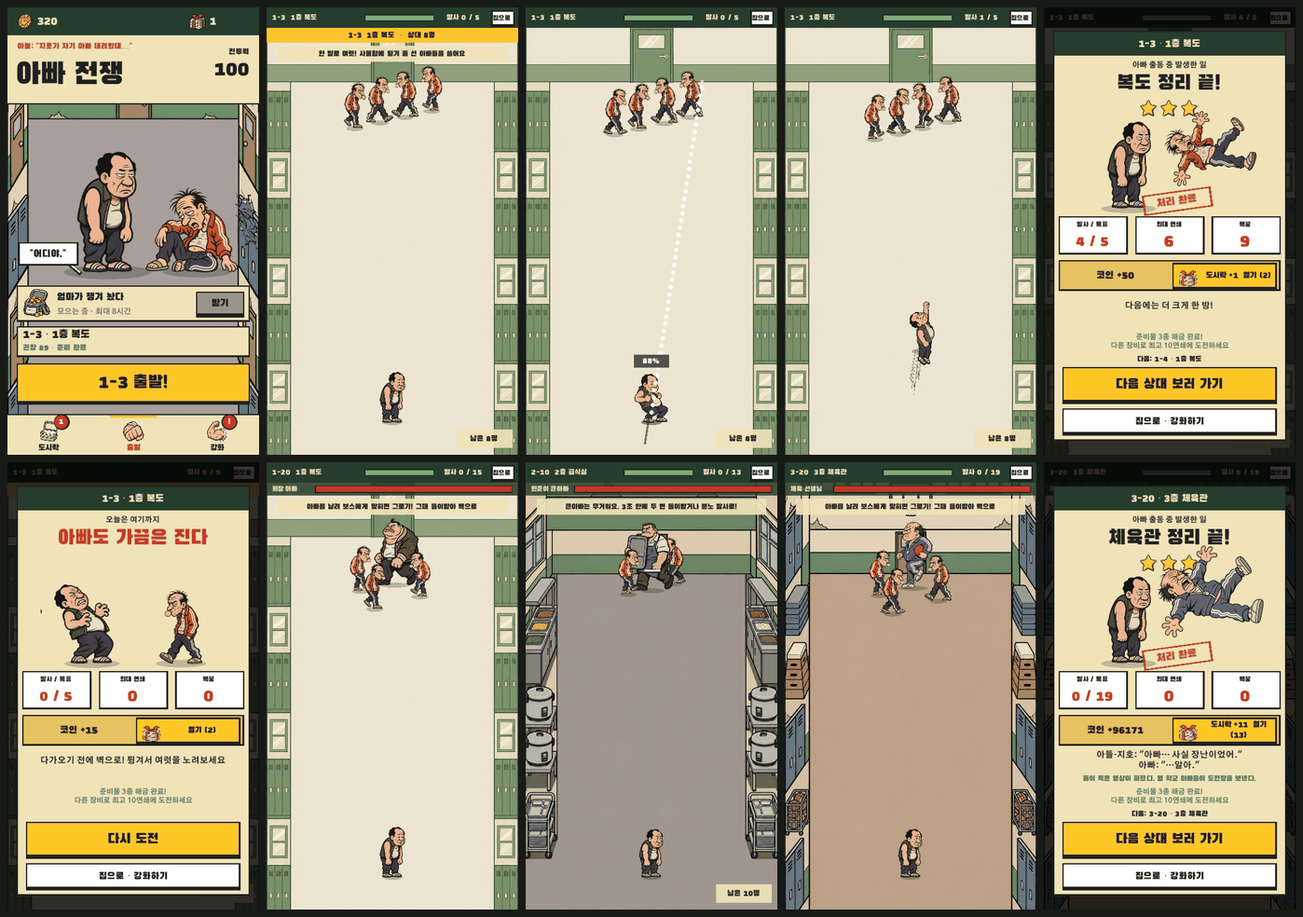
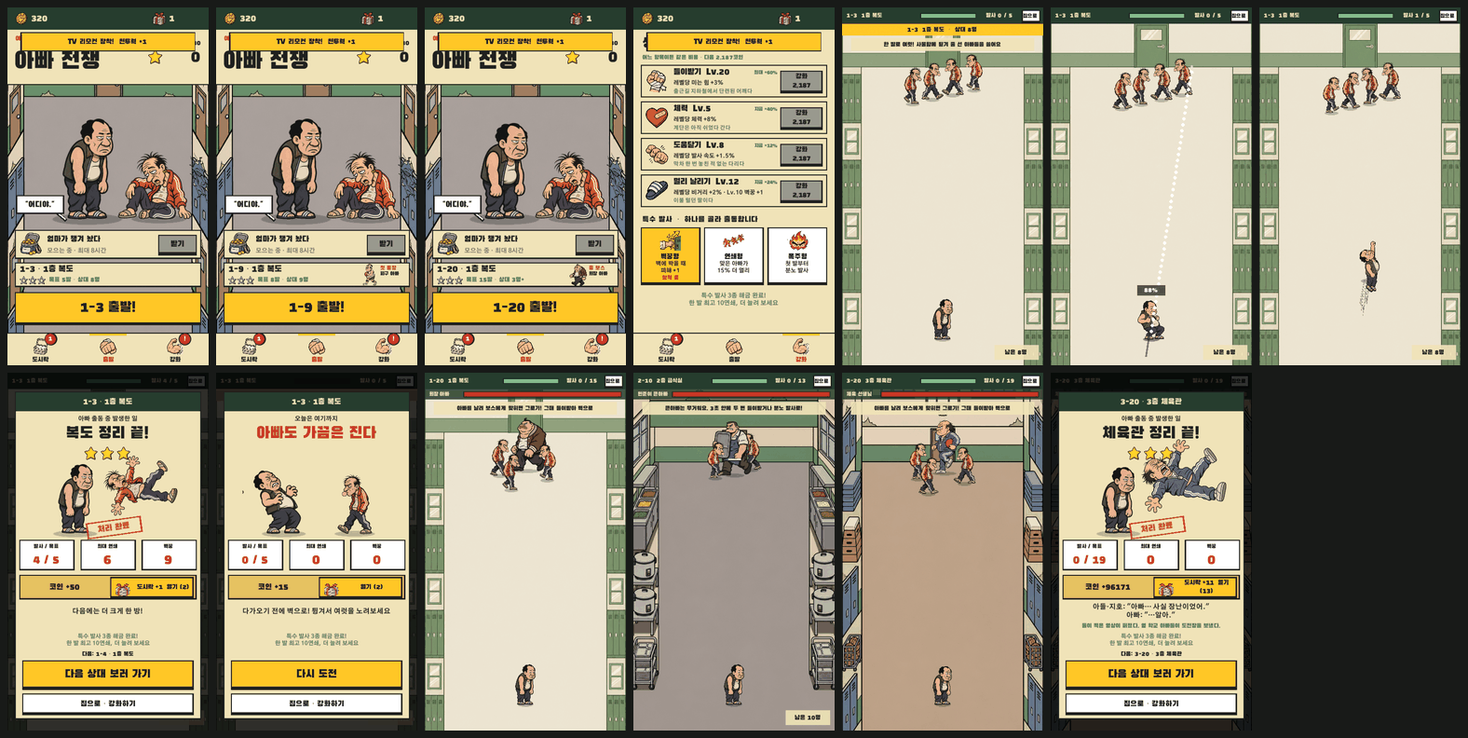
Reword upgrades, special launches and the 출발 card for the slingshot
- 강화 tab: 들이받기 / 체력 / 도움닫기 / 멀리 날리기 with per-level effects
  and current values read from the same table the fight uses (최대 at cap)
- Loadouts become 특수 발사 벽꿍형 / 연쇄형 / 폭주형 with the V13 icons;
  the old names clashed with lunchbox gear (PM R8)
- 출발 card: best stars, shot target, foe count, and a tag for the first
  chair / tray / dodgeball dad, the big-dad and the floor boss; the home
  header shows collected stars instead of power (C-13)
- Next-goal and 엄마의 응원 lines match the new fight
- 2 new play checks; slingmain audit captures the new home screens

diff --git a/Assets/DadSchoolBoss/DadHomeScreens.cs b/Assets/DadSchoolBoss/DadHomeScreens.cs
@@ -10,7 +10,7 @@ public sealed partial class DadSchoolPrototype
     public HomeTab Tab { get; set; } = HomeTab.Go;
     static readonly string[] TabNames = { "도시락", "출발", "강화" };
     static readonly string[] TabIcons = { "tab_lunchbox", "tab_go", "tab_upgrade" };
-    static readonly string[] UpgradeQuips = { "주먹 쥘 일은 없었으면 했다", "계단은 아직 쉬었다 간다", "리모컨 누르던 엄지다", "이불 털던 어깨다" };
+    static readonly string[] UpgradeQuips = { "출근길 지하철에서 단련된 어깨다", "계단은 아직 쉬었다 간다", "막차 한 번 놓친 적 없는 다리다", "이불 털던 팔이다" };
     static readonly string[] FloorDone = { "복도 정리 끝!", "급식실 정리 끝!", "체육관 정리 끝!" };
     static readonly Color Night = new Color(.15f, .24f, .18f);   // v9 top bar and result header
     static readonly Color Muted = new Color(.45f, .44f, .4f);
@@ -58,16 +58,18 @@ public sealed partial class DadSchoolPrototype
         Text(new Rect(c.x - 20, c.y - 14, 40, 28), s, 16, Color.white, true, TextAnchor.MiddleCenter);
     }
 
-    // ---- 출발: the son's line, the title and power, the scene, mom's idle stash, the stage and the go button ----------
+    // ---- 출발: the son's line, the title and stars, the scene, mom's idle stash, the stage and the go button ----------
     void DrawGoTab()
     {
         DadSave save = Progress.Save; int stage = save.currentStage, floor = Progress.Eco.Floor(stage);
-        float power = Progress.EffectivePower(stage), required = Progress.Eco.RequiredPower(stage);
         Box(new Rect(0, BarHeight, Width, 146), Paper); Box(new Rect(0, BarHeight + 146, Width, 3), Ink);
         Text(new Rect(22, 70, 340, 26), "아들: \"지호가 자기 아빠 데려왔대…\"", 17, Red, true);
         Text(new Rect(18, 94, 330, 104), Title, 64, Ink, true);
-        Text(new Rect(330, 82, 188, 26), "전투력", 17, Ink, true, TextAnchor.MiddleRight);
-        Text(new Rect(290, 106, 228, 56), Mathf.RoundToInt(power).ToString("N0"), 42, Ink, true, TextAnchor.MiddleRight);
+        // Stars collected over the school (C-13: the power number moved out; the fight runs on upgrades, not power).
+        int stars = 0; foreach (int s in save.stars) stars += s;
+        Text(new Rect(330, 82, 188, 26), "모은 별 / " + 3 * Progress.Eco.TotalStages, 17, Ink, true, TextAnchor.MiddleRight);
+        Icon("star_full", new Rect(376, 112, 42, 42));
+        Text(new Rect(418, 106, 100, 56), stars.ToString(), 42, Ink, true, TextAnchor.MiddleRight);
         DrawHomeScene(floor);
 
         // Mom's stash (idle reward): always on its own row so it never covers dad's face (v9).
@@ -79,15 +81,23 @@ public sealed partial class DadSchoolPrototype
                                               : "모으는 중 · 최대 " + Mathf.RoundToInt(Progress.Eco.offlineCapHours) + "시간", 16, idle ? Ink : Muted);
         if (Button(new Rect(404, 610, 104, 50), "받기", Yellow, idle, 22)) { Progress.ClaimIdle(); PersistNow(); PlaySfx("sfx_coin", .7f); }
 
+        // The stage card (C-13): best stars so far, the shot target and how many dads, and who is new or big on the right.
         Panel(new Rect(20, 684, 500, 66), Paper);
         Text(new Rect(34, 686, 330, 34), Progress.Eco.Label(stage) + " · " + StagePlan.FloorNames[Mathf.Clamp(floor - 1, 0, 2)], 24, Ink, true);
-        bool weak = power < required;
-        Text(new Rect(34, 716, 360, 30), "권장 " + Mathf.RoundToInt(required).ToString("N0") + (weak ? " · 조금 더 준비하고 갈까?" : " · 준비 완료"), 17, weak ? Red : Green, true);
+        SlingshotSim.Stage next = CardStage(stage); int best = Progress.Stars(stage);
+        for (int s = 0; s < 3; s++) Icon(s < best ? "star_full" : "star_empty", new Rect(32 + s * 24, 720, 24, 24));
+        Text(new Rect(112, 716, 270, 30), "목표 " + next.par + "발 · 상대 " + next.spawns.Count + "명" + (next.bossEscorts ? "+" : ""), 17, Green, true);
         float assist = Progress.StuckAssist(stage);
         if (assist > 1.001f)
         {
             Icon("mom_cheer", new Rect(392, 690, 52, 52));
-            Text(new Rect(442, 688, 76, 60), "엄마 응원\n+" + Mathf.RoundToInt((assist - 1) * 100) + "%", 15, Green, true);
+            Text(new Rect(442, 688, 76, 60), "엄마 응원\n체력+" + Mathf.RoundToInt((assist - 1) * 100) + "%", 15, Green, true);
+        }
+        else if (cardFoe != null)
+        {
+            DrawCharacter(cardFoe, "walk", 0, new Vector2(412, 746), cardElite ? 66 : 58, false);
+            Text(new Rect(440, 688, 78, 22), cardTag, 15, Red, true);
+            Text(new Rect(440, 708, 78, 40), cardName, 14, Ink, true, TextAnchor.UpperLeft);
         }
         if (Button(new Rect(20, 764, 500, 84), Progress.Eco.Label(stage) + " 출발!", Yellow, true, 38)) StartRun();
     }
@@ -147,49 +157,56 @@ public sealed partial class DadSchoolPrototype
         Text(new Rect(24, 790, 492, 60), "\"밥 먹으려고 열었는데 효자손이 나왔다.\"", 18, Green, true, TextAnchor.MiddleCenter);
     }
 
-    // ---- 강화: four rows with what each level really does, then the loadout that changes how a fight plays -------------
+    // ---- 강화: four rows with what each level does in the fight, then the special launch that changes how it plays ---------
     void DrawUpgradeTab()
     {
         double cost = Progress.NextUpgradeCost; bool afford = Progress.Save.coins >= cost;
-        int step = Mathf.RoundToInt(Progress.Eco.upgradePower * 100);
         Text(new Rect(24, 70, 492, 54), "생활 체력 단련", 36, Ink, true);
-        Text(new Rect(24, 120, 492, 26), "어느 강화든 전투력 +" + step + "% · 다음 비용 " + Mathf.CeilToInt((float)cost).ToString("N0") + "코인", 16, Green, true);
+        Text(new Rect(24, 120, 492, 26), "어느 항목이든 같은 비용 · 다음 " + Mathf.CeilToInt((float)cost).ToString("N0") + "코인", 16, Green, true);
         for (int i = 0; i < DadProgress.StatCount; i++)
         {
             Rect row = new Rect(20, 154 + i * 98, 500, 88); Panel(row, Paper);
             Icon(UpgradeIcons[i], new Rect(30, row.y + 10, 68, 68));
-            Text(new Rect(108, row.y + 4, 180, 32), DadProgress.StatNames[i] + "  Lv." + Progress.Save.upgrades[i], 23, Ink, true);
-            Text(new Rect(236, row.y + 8, 150, 26), UpgradeNow(i), 14, Green, true, TextAnchor.MiddleRight);
-            Text(new Rect(108, row.y + 36, 280, 24), UpgradeEffect(i, step), 15, Ink);
+            Text(new Rect(108, row.y + 4, 210, 32), DadProgress.StatNames[i] + "  Lv." + Progress.Save.upgrades[i], 23, Ink, true);
+            Text(new Rect(296, row.y + 8, 90, 26), UpgradeNow(i), 14, Green, true, TextAnchor.MiddleRight);
+            Text(new Rect(108, row.y + 36, 280, 24), UpgradeEffect(i), 15, Ink);
             Text(new Rect(108, row.y + 59, 280, 24), UpgradeQuips[i], 14, Green);
             if (Button(new Rect(394, row.y + 16, 114, 56), "강화\n" + Mathf.CeilToInt((float)cost).ToString("N0"), afford ? Yellow : Color.white, afford, 19) && Progress.TryUpgrade(i))
             { PersistNow(); PlaySfx("sfx_skill_pick", .6f); }
         }
-        Text(new Rect(24, 552, 492, 34), "출동 준비물  ·  싸우는 방식이 바뀝니다", 21, Ink, true);
-        string[] names = { "고무 슬리퍼", "튼튼한 도시락", "폴더폰" };
-        string[] effects = { "날리는 힘 +25%\n벽 피해 +1", ChainGearUnlocked ? "처음부터\n충돌 전달 강화" : "[잠김]\n3연쇄 또는 첫 승리", PhoneGearUnlocked ? "필살기가 공포 파동\n체력 +6 · 폭주 없음" : "[잠김]\n누적 벽꿍 " + TotalWallHits + "/" + PhoneWallGoal };
+        Text(new Rect(24, 552, 492, 34), "특수 발사  ·  하나를 골라 출동합니다", 21, Ink, true);
+        string[] effects = { "벽에 박을 때\n피해 +1", ChainGearUnlocked ? "맞은 아빠가\n" + Mathf.RoundToInt(ChainLaunchThrow * 100) + "% 더 멀리" : "[잠김]\n3연쇄 또는 첫 승리", PhoneGearUnlocked ? "첫 발부터\n분노 발사" : "[잠김]\n누적 벽꿍 " + TotalWallHits + "/" + PhoneWallGoal };
         bool[] open = { true, ChainGearUnlocked, PhoneGearUnlocked };
         for (int i = 0; i < 3; i++)
         {
             Rect c = new Rect(20 + i * 170, 590, 160, 150);
             if (Button(c, "", Gear == i ? Yellow : Color.white, open[i])) { SelectGear(i); }
-            Text(new Rect(c.x + 6, c.y + 10, c.width - 12, 34), names[i], 20, Ink, true, TextAnchor.MiddleCenter);
-            Text(new Rect(c.x + 8, c.y + 48, c.width - 16, 70), effects[i], 15, open[i] ? Ink : Muted, false, TextAnchor.UpperCenter);
-            if (Gear == i) Text(new Rect(c.x, c.y + 116, c.width, 26), "장착 중", 16, Red, true, TextAnchor.MiddleCenter);
+            Texture2D icon = LaunchIcon(i);
+            if (icon != null) { GUI.color = open[i] ? Color.white : new Color(1, 1, 1, .45f); GUI.DrawTexture(new Rect(c.center.x - 32, c.y + 4, 64, 64), icon, ScaleMode.ScaleToFit); GUI.color = Color.white; }
+            Text(new Rect(c.x + 6, c.y + 66, c.width - 12, 24), LaunchNames[i], 20, Ink, true, TextAnchor.MiddleCenter);
+            Text(new Rect(c.x + 8, c.y + 90, c.width - 16, 36), effects[i], 15, open[i] ? Ink : Muted, false, TextAnchor.UpperCenter);
+            if (Gear == i) Text(new Rect(c.x, c.y + 126, c.width, 20), "장착 중", 16, Red, true, TextAnchor.MiddleCenter);
         }
         Text(new Rect(24, 754, 492, 56), NextGoal, 16, Green, false, TextAnchor.MiddleCenter);
     }
-    // What a level really changes today: every level raises the shared power; combo and launch also feed combat directly
-    // (ApplyPower). Fist and stamina are not split yet, so no separate number is shown for them (v9 강화).
-    static string UpgradeEffect(int stat, int step)
+    // V13 special-launch icons (A-B09), loaded once.
+    Texture2D[] launchIcons;
+    Texture2D LaunchIcon(int i)
     {
-        return "전투력 +" + step + "%" + (stat == 2 ? " · 공격 간격 -1%" : stat == 3 ? " · 날리는 힘 +2%" : "");
+        if (launchIcons == null) launchIcons = new[] { Resources.Load<Texture2D>("DadV13/ui/wall_launch"), Resources.Load<Texture2D>("DadV13/ui/chain_launch"), Resources.Load<Texture2D>("DadV13/ui/rage_launch") };
+        return launchIcons[i];
     }
-    // The combat bonus reached so far, with the caps ApplyPower uses (combo 30%, launch 60%).
+    // What one level does in the fight, from the numbers ApplyGrowth uses.
+    static string UpgradeEffect(int stat)
+    {
+        string per = "레벨당 " + (stat == 0 ? "미는 힘" : stat == 1 ? "체력" : stat == 2 ? "발사 속도" : "비거리") + " +" + (GrowthStep[stat] * 100).ToString("0.#") + "%";
+        return stat == 3 ? per + " · Lv." + FarThrowWallLevel + " 벽꿍 +1" : per;
+    }
+    // The bonus reached so far; "최대" once the cap is hit (health has none).
     string UpgradeNow(int stat)
     {
         int lv = Progress.Save.upgrades[stat];
-        return stat == 2 ? "지금 간격 -" + Mathf.Min(30, lv) + "%" : stat == 3 ? "지금 힘 +" + Mathf.Min(60, lv * 2) + "%" : "";
+        return (GrowthCapped(stat, lv) ? "최대 +" : "지금 +") + (GrowthBonus(stat, lv) * 100).ToString("0.#") + "%";
     }
 
     // ---- result: today's job report (v9 03) -----------------------------------------------------------------------------
@@ -242,7 +259,7 @@ public sealed partial class DadSchoolPrototype
         else if (!won && Progress.StuckAssist(PlayingStage) > 1.001f)
         {
             Icon("mom_cheer", new Rect(120, 664, 30, 30));
-            Text(new Rect(154, 666, 300, 26), "엄마의 응원 +" + Mathf.RoundToInt((Progress.StuckAssist(PlayingStage) - 1) * 100) + "% 적용 중", 17, Green, true);
+            Text(new Rect(154, 666, 300, 26), "엄마의 응원 " + (UseSlingshot ? "체력 +" : "+") + Mathf.RoundToInt((Progress.StuckAssist(PlayingStage) - 1) * 100) + "% 적용 중", 17, Green, true);
         }
         Text(new Rect(44, 694, 452, 46), NextGoal, 15, Green, false, TextAnchor.MiddleCenter);
         int next = Progress.Save.currentStage;

diff --git a/Assets/DadSchoolBoss/DadSlingshotBattle.cs b/Assets/DadSchoolBoss/DadSlingshotBattle.cs
@@ -35,16 +35,49 @@ public sealed partial class DadSchoolPrototype
         SlingBattle = true; SlingResult = null; Home = false; Paused = false; Combat = null; Director = null;
         popups.Clear(); resultReason = "";
     }
-    // 주먹 -> 들이받기, 체력, 연타 -> 도움닫기, 날리기 -> 멀리 날리기 (+1 wall damage from Lv.10). Gear: 벽꿍형 adds wall
-    // damage, 연쇄형 sends hit dads further, 폭주형 starts with a rage shot. 엄마의 응원 (losing streak) adds health.
+    // Upgrades in the fight, per level and capped (the 강화 tab reads the same numbers): 들이받기 = how hard a hit dad is
+    // sent, 체력 = dad's health (no cap), 도움닫기 = launch speed, 멀리 날리기 = how far a hit dad flies, +1 wall damage
+    // from Lv.10. Special launches: 벽꿍형 adds wall damage, 연쇄형 sends hit dads further, 폭주형 starts with a rage shot.
+    // 엄마의 응원 (losing streak) adds health.
+    public static readonly float[] GrowthStep = { .03f, .08f, .015f, .02f };
+    static readonly float[] GrowthCap = { .6f, float.MaxValue, .3f, .5f };
+    public const int FarThrowWallLevel = 10;
+    public const float ChainLaunchThrow = .15f;
+    public static float GrowthBonus(int stat, int level) { return Mathf.Min(GrowthCap[stat], GrowthStep[stat] * level); }
+    public static bool GrowthCapped(int stat, int level) { return GrowthStep[stat] * level >= GrowthCap[stat] - 1e-4f; }   // .03f * 20 lands just under .6f
     public static void ApplyGrowth(SlingshotSim sim, int[] up, int gear, float assist)
     {
-        sim.knockBonus = Mathf.Min(1.6f, 1 + .03f * up[0]);
-        sim.SetHealth(100 * (1 + .08f * up[1]) * assist);
-        sim.launchBonus = Mathf.Min(1.3f, 1 + .015f * up[2]);
-        sim.throwBonus = Mathf.Min(1.5f, 1 + .02f * up[3]) * (gear == 1 ? 1.15f : 1);
-        sim.wallBonus = (up[3] >= 10 ? 1 : 0) + (gear == 0 ? 1 : 0);
+        sim.knockBonus = 1 + GrowthBonus(0, up[0]);
+        sim.SetHealth(100 * (1 + GrowthBonus(1, up[1])) * assist);
+        sim.launchBonus = 1 + GrowthBonus(2, up[2]);
+        sim.throwBonus = (1 + GrowthBonus(3, up[3])) * (gear == 1 ? 1 + ChainLaunchThrow : 1);
+        sim.wallBonus = (up[3] >= FarThrowWallLevel ? 1 : 0) + (gear == 0 ? 1 : 0);
         if (gear == 2) sim.ragePending = true;
+    }
+
+    // ---- the 출발 card: what the next fight holds -------------------------------------------------------------------------
+    public static readonly string[] KindNames = { "껌 아빠", "의자 아빠", "쟁반 아빠", "보스", "피구 아빠" };   // by SlingshotSim.Kind
+    SlingshotSim.Stage cardStage; int cardStageNo; string cardFoe, cardTag, cardName; bool cardElite;
+    public static SlingshotSim.Stage MainStage(DadEconomy eco, int stage) { return SlingshotSim.ForMain(eco.Floor(stage), eco.Number(stage), DadSlingshotPrototype.Arena); }
+    // A role no earlier stage had (the first chair, tray and dodgeball dad), or -1. Plain dads and bosses are not roles.
+    public static int NewKind(DadEconomy eco, int stage)
+    {
+        var seen = new System.Collections.Generic.HashSet<SlingshotSim.Kind> { SlingshotSim.Kind.Gum, SlingshotSim.Kind.Boss };
+        for (int s = 1; s < stage; s++) foreach (SlingshotSim.Spawn sp in MainStage(eco, s).spawns) seen.Add(sp.kind);
+        foreach (SlingshotSim.Spawn sp in MainStage(eco, stage).spawns) if (!seen.Contains(sp.kind)) return (int)sp.kind;
+        return -1;
+    }
+    // Cached per stage: the stage, and the dad to show on the card (floor boss, big-dad or a first appearance).
+    SlingshotSim.Stage CardStage(int stage)
+    {
+        if (cardStage != null && cardStageNo == stage) return cardStage;
+        DadEconomy eco = Progress.Eco; int floorIndex = Mathf.Clamp(eco.Floor(stage) - 1, 0, 2), kind = NewKind(eco, stage);
+        cardStage = MainStage(eco, stage); cardStageNo = stage; cardFoe = cardTag = cardName = null; cardElite = false;
+        SlingshotSim.Spawn elite = cardStage.spawns.Find(sp => sp.elite);
+        if (cardStage.spawns.Exists(sp => sp.kind == SlingshotSim.Kind.Boss)) { cardTag = "층 보스"; cardFoe = "boss" + (floorIndex + 1); cardName = BossNames[floorIndex]; }
+        else if (elite != null) { cardTag = "큰아빠"; cardFoe = DadSlingshotPrototype.FoeId(elite.kind); cardName = EliteNames[floorIndex]; cardElite = true; }
+        else if (kind >= 0) { cardTag = "첫 등장"; cardFoe = DadSlingshotPrototype.FoeId((SlingshotSim.Kind)kind); cardName = KindNames[kind]; }
+        return cardStage;
     }
 
     void OnSlingFinished(SlingshotSim sim)

diff --git a/Assets/DadSchoolBoss/Editor/DadPrototypeSetup.cs b/Assets/DadSchoolBoss/Editor/DadPrototypeSetup.cs
@@ -173,6 +173,11 @@ public static class DadPrototypeSetup
         DadProgress original = g.Progress; string temp = TempSavePath("slingmain"); int gear = g.Gear;
         Step(1, () => { var p = new DadProgress(DadEconomy.Load(), temp) { Rng = new System.Random(5) }; p.Save.coins = 320; p.Save.bestStage = 3; p.Save.currentStage = 3; p.Save.lunchboxes = 1; g.UseProgress(p); g.GoHome(); });
         Step(10, () => shot("sm01-home"));
+        // 출발 card with a first appearance and with the floor boss; 강화 tab with one stat at its cap.
+        Step(1, () => { g.Progress.Save.bestStage = g.Progress.Save.currentStage = 9; }); Step(4, () => shot("sm01b-card-new-foe"));
+        Step(1, () => { g.Progress.Save.bestStage = g.Progress.Save.currentStage = 20; }); Step(4, () => shot("sm01c-card-boss"));
+        Step(1, () => { g.Progress.Save.upgrades = new[] { 20, 5, 8, 12 }; g.Tab = DadSchoolPrototype.HomeTab.Upgrade; }); Step(4, () => shot("sm01d-upgrade"));
+        Step(1, () => { g.Progress.Save.upgrades = new[] { 0, 0, 0, 0 }; g.Progress.Save.bestStage = g.Progress.Save.currentStage = 3; g.Tab = DadSchoolPrototype.HomeTab.Go; });
         Step(1, () => g.StartRun()); Step(100, () => shot("sm02-fight-1-3"));
         Step(1, () => g.SlingView.DebugAim(new Vector2(270, 700), new Vector2(250, 830))); Step(20, () => shot("sm03-aim"));
         Step(1, () => g.SlingView.DebugRelease()); Step(10, () => shot("sm04-flight"));
@@ -584,6 +589,11 @@ public static class DadPrototypeSetup
             Expect(!game.LastReward.won && game.Progress.Save.coins > slingCoins && game.Progress.Save.lossesAtStage == 1 && game.Progress.Save.currentStage == 2, "a lost fight pays the consolation share and stays on the stage", report);
             game.Progress.Save.upgrades = new[] { 10, 5, 10, 10 }; game.StartRun();
             Expect(game.Sling.knockBonus > 1.29f && game.Sling.launchBonus > 1.14f && game.Sling.dad.maxHealth > 139 && game.Sling.wallBonus == 2, "upgrades reach the fight (들이받기, 체력, 도움닫기, 멀리 날리기)", report);
+            Expect(Mathf.Approximately(DadSchoolPrototype.GrowthBonus(0, 30), .6f) && DadSchoolPrototype.GrowthCapped(0, 20) && !DadSchoolPrototype.GrowthCapped(1, 500), "upgrade caps the 강화 tab shows: 들이받기 stops at +60%, 체력 has none", report);
+            DadEconomy cardEco = game.Progress.Eco;
+            int[] firsts = new int[10]; for (int s = 1; s <= 10; s++) firsts[s - 1] = DadSchoolPrototype.NewKind(cardEco, s);
+            Expect(firsts[3] == (int)SlingshotSim.Kind.Chair && firsts[6] == (int)SlingshotSim.Kind.Tray && firsts[8] == (int)SlingshotSim.Kind.Dodge && DadSchoolPrototype.NewKind(cardEco, 30) < 0
+                && System.Array.FindAll(firsts, k => k >= 0).Length == 3, "the 출발 card flags only the first chair (1-4), tray (1-7) and dodgeball dad (1-9) (1-1..1-10: " + string.Join(",", firsts) + ")", report);
             game.StartStage(20);
             Expect(game.Sling.stage.floor == 1 && game.Sling.stage.spawns.Exists(sp => sp.kind == SlingshotSim.Kind.Boss), "1-20 is the floor-1 boss fight", report);
             game.StartStage(30);

diff --git a/Assets/DadSchoolBoss/DadSchoolJuice.cs b/Assets/DadSchoolBoss/DadSchoolJuice.cs
@@ -25,14 +25,16 @@ public sealed partial class DadSchoolPrototype
     static float BodySize(Fighter e) { return (e.boss ? 205 : e.kind == 1 ? 165 : 142) * (e.elite ? 1.45f : 1); }
     float chainBadge;
     int displayedChain;
-    string GearName { get { return Gear == 0 ? "고무 슬리퍼" : Gear == 1 ? "튼튼한 도시락" : "폴더폰"; } }
+    // The three loadouts are the special launches (C-10; their old item names clashed with lunchbox gear, PM R8).
+    public static readonly string[] LaunchNames = { "벽꿍형", "연쇄형", "폭주형" };
+    string GearName { get { return LaunchNames[Mathf.Clamp(Gear, 0, 2)]; } }
     string NextGoal
     {
         get
         {
-            if (!ChainGearUnlocked) return "다음 준비물: 튼튼한 도시락\n최고 " + BestChain + " / 3연쇄 또는 첫 승리";
-            if (!PhoneGearUnlocked) return "다음 준비물: 폴더폰\n누적 벽꿍 " + TotalWallHits + " / " + PhoneWallGoal + "회  (" + (PhoneWallGoal - TotalWallHits) + "회 남음)";
-            return "준비물 3종 해금 완료!\n다른 장비로 최고 " + BestChain + "연쇄에 도전하세요";
+            if (!ChainGearUnlocked) return "다음 특수 발사: 연쇄형\n최고 " + BestChain + " / 3연쇄 또는 첫 승리";
+            if (!PhoneGearUnlocked) return "다음 특수 발사: 폭주형\n누적 벽꿍 " + TotalWallHits + " / " + PhoneWallGoal + "회  (" + (PhoneWallGoal - TotalWallHits) + "회 남음)";
+            return "특수 발사 3종 해금 완료!\n한 발 최고 " + BestChain + "연쇄, 더 늘려 보세요";
         }
     }
     // Atlas frames: 0 gum guy (basic), 1 chair charger, 2 tray guy, 3 school boss. The tray look is reserved for the tray role.

diff --git a/Assets/DadSchoolBoss/DadProgress.cs b/Assets/DadSchoolBoss/DadProgress.cs
@@ -36,7 +36,7 @@ public sealed class StageReward
 public sealed class DadProgress
 {
     public const int StatCount = 4;
-    public static readonly string[] StatNames = { "주먹", "체력", "연타", "날리기" };
+    public static readonly string[] StatNames = { "들이받기", "체력", "도움닫기", "멀리 날리기" };   // slingshot names (C-08); was 주먹·체력·연타·날리기
     public readonly DadEconomy Eco;
     public DadSave Save { get; private set; }
     readonly string path;

diff --git a/Design/dad-war-pm.md b/Design/dad-war-pm.md
@@ -50,15 +50,16 @@
 
 ## 3-1. 11/5 메인 게임 전투 교체 기록 (D-008)
 
-![메인 흐름: 홈 → 1-3 전투 → 조준 → 비행 → 승리·패배 결과 → 1-20 보스 → 2-10 큰아빠 → 3-20 보스 → 결말](dad-war-main-slingshot-v1.png)
+![메인 흐름: 홈 → 출발 카드(1-9 첫 등장·1-20 층 보스) → 강화 탭 → 1-3 전투 → 조준 → 비행 → 승리·패배 결과 → 1-20 보스 → 2-10 큰아빠 → 3-20 보스 → 결말](dad-war-main-slingshot-v1.png)
 
 - **흐름:** 홈 「출발」 → 슬링샷 전투 → 결과 카드(코인·도시락·별 저장) → 다음 판 또는 집으로. 전투 중 상단 「집으로」와 뒤로 가기는 홈으로 간다.
 - **판 구성:** 3층 × 20판을 `SlingshotSim.ForMain`이 만든다. 1-1~1-10은 첫 10판 순서(당기기 → 튕김·연쇄 → 의자 → 몸풀기 판 → 쟁반 → 피구 → 큰아빠), 나머지는 판이 갈수록 상대 수·역할 비율·속도가 오르고 10번째 판은 큰아빠, 20번째 판은 그 층 보스다.
-- **성장 연결(C-08 초안 수치):** 주먹 → 들이받기, 체력 → 체력, 연타 → 도움닫기, 날리기 → 멀리 날리기. 강화 화면의 이름·설명은 아직 옛 전투 기준이라 다음 디자인 작업에서 바꾼다.
-- **준비물 연결(C-10 초안):** 기존 3종을 벽꿍형(벽꿍 피해 +1)·연쇄형(맞은 아빠 +15% 더 멀리)·폭주형(첫 발이 분노 발사)으로 연결했다. 이름 정리는 R8 그대로 열려 있다.
+- **성장 연결(C-08 초안 수치):** 주먹 → 들이받기, 체력 → 체력, 연타 → 도움닫기, 날리기 → 멀리 날리기. 강화 탭도 같은 이름과 실제 효과(레벨당 수치, 지금 값, 상한에 닿으면 「최대」)로 바꿨다. 수치는 전투 코드와 같은 표를 읽는다.
+- **준비물 연결(C-10 초안):** 기존 3종을 벽꿍형(벽꿍 피해 +1)·연쇄형(맞은 아빠 +15% 더 멀리)·폭주형(첫 발이 분노 발사)으로 연결하고, 강화 탭에서 「특수 발사」라는 이름과 V13 아이콘으로 보여 준다. 장비와 겹치던 옛 이름(고무 슬리퍼·튼튼한 도시락·폴더폰)은 없앴다(R8 해결).
+- **홈 출발 카드(C-13):** 권장 전투력 대신 그 판의 최고 별, 목표 발사 수, 상대 수를 보여 주고, 처음 나오는 역할 아빠(1-4 의자·1-7 쟁반·1-9 피구)·큰아빠·층 보스는 오른쪽에 그림과 이름표를 붙인다. 홈 위쪽 「전투력」 숫자는 「모은 별 / 180」으로 바꿨다. 전투가 전투력이 아니라 강화 수치로 돌아가기 때문이다.
 - **결과 카드(C-12):** 발사/목표·최대 연쇄·벽꿍, 별은 전투 규칙(클리어·체력 절반·목표 발사 수)을 그대로 저장한다.
 - **2·3층 배경:** V13 긴 복도는 1층뿐이라 2·3층은 v5 급식실·체육관 그림을 쓴다. 뒤쪽 벽 위에서 상대가 나타나 보이므로 긴 배경 A-B12를 P1로 올린다. 사물함 찌그러짐도 1층에서만 그린다.
-- **검증(Unity 2021.3.2f1 에디터):** 슬링샷 규칙 36개, 플레이 검사 43개(슬링샷 연결 12개 추가), 경제·스테이지 73개가 통과했다. 캡처 명령 `slingmain:<폴더>`(10장)를 추가했다. 초보 봇(시작 장비, 강화 없음)은 일반 판 95~100% 승리, 층 보스는 15/20·12/20·12/20([dad-slingshot-mainbot.txt](dad-slingshot-mainbot.txt)). 실기기 터치는 아직 확인하지 않았다.
+- **검증(Unity 2021.3.2f1 에디터):** 슬링샷 규칙 36개, 플레이 검사 45개(슬링샷 연결 14개 추가), 경제·스테이지 73개가 통과했다. 캡처 명령 `slingmain:<폴더>`(13장)를 추가했다. 초보 봇(시작 장비, 강화 없음)은 일반 판 95~100% 승리, 층 보스는 15/20·12/20·12/20([dad-slingshot-mainbot.txt](dad-slingshot-mainbot.txt)). 실기기 터치는 아직 확인하지 않았다.
 
 ## 4. 이번 주 확정할 것 (D-005)
 
@@ -107,7 +108,7 @@
 | R5 | Google Play가 "아동에게 어필"로 판정 | Families 정책 대상이 되면 광고 SDK 제한·개인화 광고 불가로 단가 하락 | 대상 연령 명시, 아이를 전투·광고·스토어 싸움 장면에서 제외(plan 6절 유지) | 스토어 등록 전 |
 | R6 | 엔진·API 요건 | 출시·업데이트 불가 | 4절 업그레이드를 광고 SDK보다 먼저 | 1주차 |
 | R7 | 도시락 유료 판매 시 확률 공시 의무 | 법적 제재 | 확률표와 실제 뽑기가 같은 데이터를 읽게 유지(도시락 탭이 이미 경제 데이터를 그대로 표시) | 유료 상품 기획 시 |
-| R8 | 준비물 이름과 장비 이름 중복("고무 슬리퍼"·"폴더폰") | 플레이어 혼란 | 준비물을 v2 조합(벽꿍형·연쇄형·폭주형)으로 재정의할지 결정 | 1주차 |
+| R8 | 준비물 이름과 장비 이름 중복("고무 슬리퍼"·"폴더폰") | 플레이어 혼란 | **11/5 해결:** 준비물을 특수 발사 벽꿍형·연쇄형·폭주형으로 바꿈(D-008) | — |
 
 ## 7. 디자인 검토 (11/4, 37개 화면 캡처 기준)
 
@@ -141,4 +142,4 @@
 6. 「아빠의 잔기술」 레벨업 카드 유지 여부(B안에는 레벨업 자체가 없음, 빼는 쪽으로 제안)
 7. 아들 외형 기준 통일: v11 컷(크림 티셔츠)으로 맞출지, 요청서(올리브 후드)로 맞출지
 8. ~~그림만 있고 쓰지 않는 피구 아빠를 3층 체육관 상대로 쓸지~~ → 11/5 1-9에서 처음 나오고 이후 모든 층에 섞이도록 적용(D-008)
-9. 강화 4종·준비물 3종의 새 이름과 설명 확정(C-08·C-10, 지금은 초안 수치로만 연결)
+9. 강화 4종·특수 발사 3종의 이름과 문구 승인(11/5 적용: 들이받기·체력·도움닫기·멀리 날리기 / 벽꿍형·연쇄형·폭주형, 수치는 초안)

diff --git a/README.md b/README.md
@@ -20,7 +20,7 @@
 ## 현재 구현
 
 - 오프닝: 회사 스플래시, 키아트 타이틀, 의리 테스트 6컷 시나리오(자막·건너뛰기·다시 보기)
-- 홈 하단 3탭: 출발(아빠와 사물함에 박힌 지호 아빠, 엄마 방치 보상, 스테이지 카드) · 도시락(6부위 장비, 개봉, 등급 확률 표시) · 강화(4종 강화, 출동 준비물)
+- 홈 하단 3탭: 출발(아빠와 사물함에 박힌 지호 아빠, 엄마 방치 보상, 스테이지 카드) · 도시락(6부위 장비, 개봉, 등급 확률 표시) · 강화(들이받기·체력·도움닫기·멀리 날리기, 특수 발사 3종)
 - 전투(11/5부터 슬링샷, [PM 문서](Design/dad-war-pm.md) D-008): 당겨 쏘기, 벽 튕김 보너스, 연쇄와 분노 발사, 사물함 찌그러짐, 다가오는 껌·의자·쟁반·피구 아빠, 두 번 맞혀야 날아가는 큰아빠, 날린 아빠로 그로기를 만드는 층 보스
 - 3층 × 20스테이지, 결과 「복도 정리 끝!」(발사/목표·최대 연쇄·벽꿍), 별 3개, 3패 이후 엄마의 응원 보정, 최대 8시간 방치 보상, 로컬 저장
 - 옛 자동 펀치 전투는 비교·검사용으로 코드에 남아 있습니다(`DadSchoolPrototype.UseSlingshot = false`).
@@ -36,7 +36,7 @@
 | Run Prototype Checks (`checks`) | 에셋·import 규칙·전투 기본 | [dad-prototype-checks.txt](Design/dad-prototype-checks.txt) |
 | Run Play Mode Checks (`playchecks`, Play 중) | 오프닝 흐름, 옛 전투·보상·저장, 사물함, 모션, 슬링샷 전투 연결(시작·승패 저장·성장·층 보스·홈) | [dad-prototype-playchecks.txt](Design/dad-prototype-playchecks.txt) |
 | Run Polish Checks (`polishchecks`) | 경제·스테이지·쟁반·장비 | [dad-polish-checks.txt](Design/dad-polish-checks.txt) |
-| `slingmain:<폴더>` (Play 중) | 홈 → 전투 → 조준·비행 → 승리·패배 결과 → 층 보스·큰아빠 → 결말 10장 캡처 | [dad-war-main-slingshot-v1.png](Design/dad-war-main-slingshot-v1.png) |
+| `slingmain:<폴더>` (Play 중) | 홈·출발 카드·강화 탭 → 전투 → 조준·비행 → 승리·패배 결과 → 층 보스·큰아빠 → 결말 13장 캡처 | [dad-war-main-slingshot-v1.png](Design/dad-war-main-slingshot-v1.png) |
 | `ui:<폴더>` (Play 중) | 오프닝·홈 3탭·옛 전투 버튼·결과 화면 16장 캡처 | — |
 | 슬링샷 규칙 (`Library/DadSlingshotCommand.txt`의 `checks`) | 발사·튕김·연쇄·역할 아빠·보스·60판 생성·성장 | [dad-slingshot-checks.txt](Design/dad-slingshot-checks.txt), 봇 [dad-slingshot-mainbot.txt](Design/dad-slingshot-mainbot.txt) |
 

diff --git a/Design/dad-war-roadmap.md b/Design/dad-war-roadmap.md
@@ -35,7 +35,7 @@
 
 **11/4 변경(PM D-007):** 핵심 조작이 B안 "아빠를 당겨 쏘면 직접 날아가 튕기고, 상대 아빠들이 다가오는 방식"으로 바뀌었다. 4판 시제품과 규칙·검증은 [dad-war-slingshot-v1.md](dad-war-slingshot-v1.md)에 있다. 원래 계획한 손 떼기 강타(A0)와 3D 외형 시험은 이 단계에서 뺐다. 당겨 쏘기는 2D로도 성립하는 구조라 3D 결정은 G2 이후로 미룬다.
 
-**11/5 변경(PM D-008):** 1단계에 있던 "당겨 쏘기를 본 게임에 이식"을 앞당겨 끝냈다. 메인 씬의 「출발」이 슬링샷 전투를 열고, 3층 × 20판·첫 10판 순서·강화 4종·준비물 3종·결과 카드가 연결됐다(초안 수치, [시제품 문서](dad-war-slingshot-v1.md) 4-2절). V13 에셋(A-B01~A-B09, A-B13)도 들어갔다. 그래서 G1 사람 테스트는 시제품 메뉴가 아니라 메인 게임의 오프닝 → 1-1 → 1-10으로 한다. 남은 이식 작업은 강화·준비물 이름과 설명(C-08·C-10), 장비 6부위의 발사 성질(C-09), 홈 출발 카드(C-13), 2·3층 긴 배경(A-B12)이다.
+**11/5 변경(PM D-008):** 1단계에 있던 "당겨 쏘기를 본 게임에 이식"을 앞당겨 끝냈다. 메인 씬의 「출발」이 슬링샷 전투를 열고, 3층 × 20판·첫 10판 순서·강화 4종·준비물 3종·결과 카드가 연결됐다(초안 수치, [시제품 문서](dad-war-slingshot-v1.md) 4-2절). V13 에셋(A-B01~A-B09, A-B13)도 들어갔다. 그래서 G1 사람 테스트는 시제품 메뉴가 아니라 메인 게임의 오프닝 → 1-1 → 1-10으로 한다. 강화·특수 발사 문구(C-08·C-10)와 홈 출발 카드(C-13)도 같은 날 바꿨다. 남은 이식 작업은 장비 6부위의 발사 성질(C-09)과 2·3층 긴 배경(A-B12)이다.
 
 **개발**
 - 앱 ID 확정(`com.manducorporation.dadwar` 제안). Unity 6.3 LTS 업그레이드는 별도 브랜치에서 하고 기존 검사 통과를 확인한다.

diff --git a/Design/dad-war-b-changes-v1.md b/Design/dad-war-b-changes-v1.md
@@ -121,12 +121,13 @@ G1 사람 테스트 전에 사용자 결정으로 본 게임에 먼저 이식했
 | ID | 상태 |
 | --- | --- |
 | C-04 첫 10판 | 적용. 1-1~1-10을 당기기 → 튕김·연쇄 → 줄 선 무리 → 의자 → 몸풀기 → 쟁반 → 섞기 → 피구 → 큰아빠 순서로 배치(CSV는 아직 옛 기준) |
-| C-05 문구 | 전투 안 문구는 슬링샷 기준. 홈 카드·강화 설명의 옛 문구는 남아 있음 |
+| C-05 문구 | 적용. 전투·홈 카드·강화 탭·다음 목표 문구가 슬링샷 기준 |
 | C-06 분노 발사 | 적용(전투 안). 메인 게임의 필살기 버튼은 슬링샷 전투에 나오지 않음 |
 | C-07 잔기술 | 슬링샷 전투에는 레벨업 카드가 없음(옛 전투 코드에만 남음) |
-| C-08 강화 4종 | 초안 수치로 연결(들이받기·체력·도움닫기·멀리 날리기). 강화 화면 이름·설명 교체는 남음 |
+| C-08 강화 4종 | 적용(초안 수치). 강화 탭이 이름·레벨당 효과·지금 값을 전투와 같은 표에서 읽음 |
 | C-09 장비 6부위 | 아직. 도시락 장비는 전투에 영향 없음 |
-| C-10 준비물 3종 | 벽꿍형·연쇄형·폭주형 효과로 연결. 이름·아이콘 교체는 남음(R8) |
+| C-10 준비물 3종 | 적용. 「특수 발사」 벽꿍형·연쇄형·폭주형, V13 아이콘(A-B09). 해금 조건은 기존 그대로 |
 | C-11 큰아빠 | 적용. 층마다 다른 역할을 든 큰아빠(체력 8 → 10 → 12) |
 | C-12 결과 화면 | 적용. 발사/목표·최대 연쇄·벽꿍, 별은 전투 기준으로 저장 |
-| C-13~C-17 | 아직 |
+| C-13 홈 출발 카드 | 적용. 최고 별·목표 발사 수·상대 수, 첫 등장 역할·큰아빠·층 보스 표시. 홈 위쪽은 모은 별 |
+| C-14~C-17 | 아직 |

diff --git a/Design/dad-war-slingshot-v1.md b/Design/dad-war-slingshot-v1.md
@@ -122,7 +122,7 @@
 | 준비물 2(연쇄형) | 맞은 아빠 비거리 +15% | 기존 해금 조건 그대로 |
 | 준비물 3(폭주형) | 판 시작부터 분노 발사 1회 | 기존 해금 조건 그대로 |
 
-도시락 장비(6부위)의 전투력 %는 아직 전투에 들어가지 않는다(C-09: 부위별 발사 성질로 다시 정의할 때 연결).
+강화 탭은 이 표를 그대로 보여 준다(레벨당 수치, 지금 값, 상한이면 「최대」). 준비물은 「특수 발사」로 이름을 바꿨다. 도시락 장비(6부위)의 전투력 %는 아직 전투에 들어가지 않는다(C-09: 부위별 발사 성질로 다시 정의할 때 연결). 도시락 탭과 장비 카드에는 「전투력」 문구가 남아 있다.
 
 **결과·저장:** 결과 카드는 발사/목표·최대 연쇄·벽꿍을 보여 주고, 별은 이 전투의 기준(클리어·체력 절반 이상·목표 발사 수 이내)으로 저장한다. 코인·도시락·다음 판 해금·3패 보정은 메인 게임 규칙 그대로다. 결과 카드는 보스 마무리 연출(1초)이 끝난 뒤 뜬다.
 
